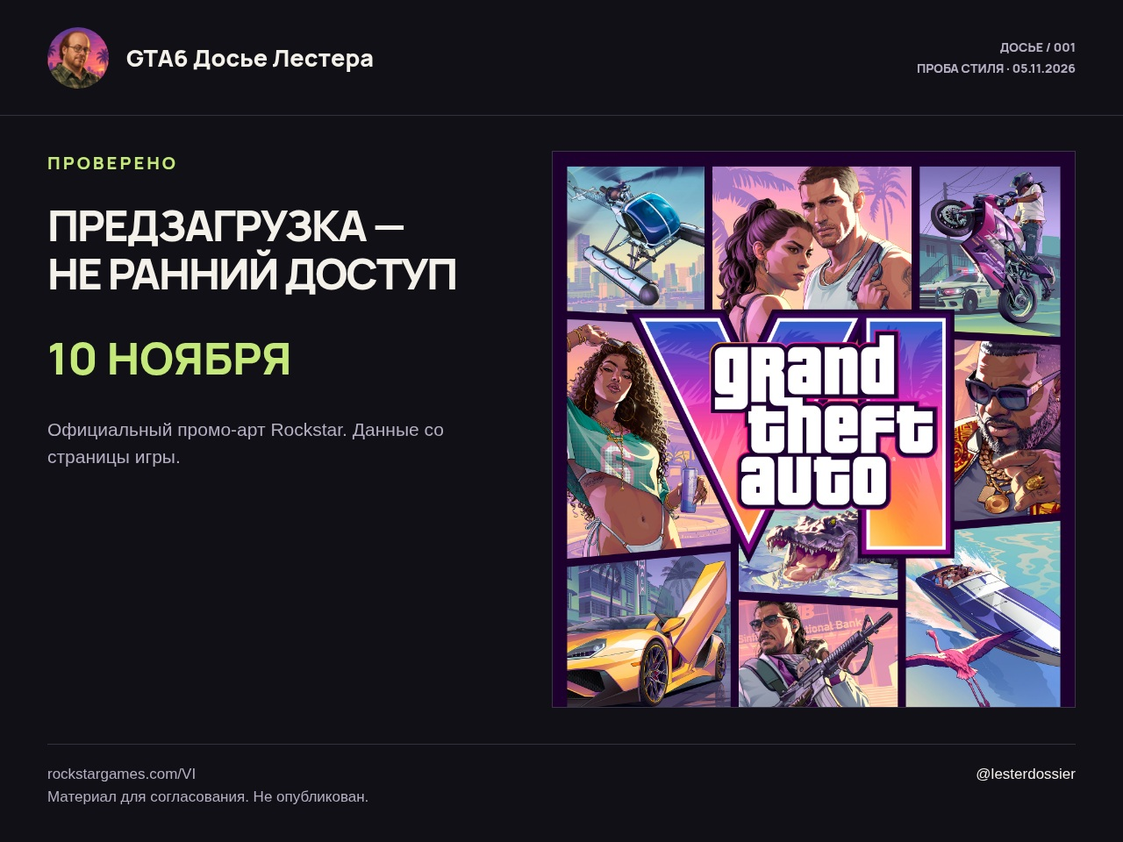
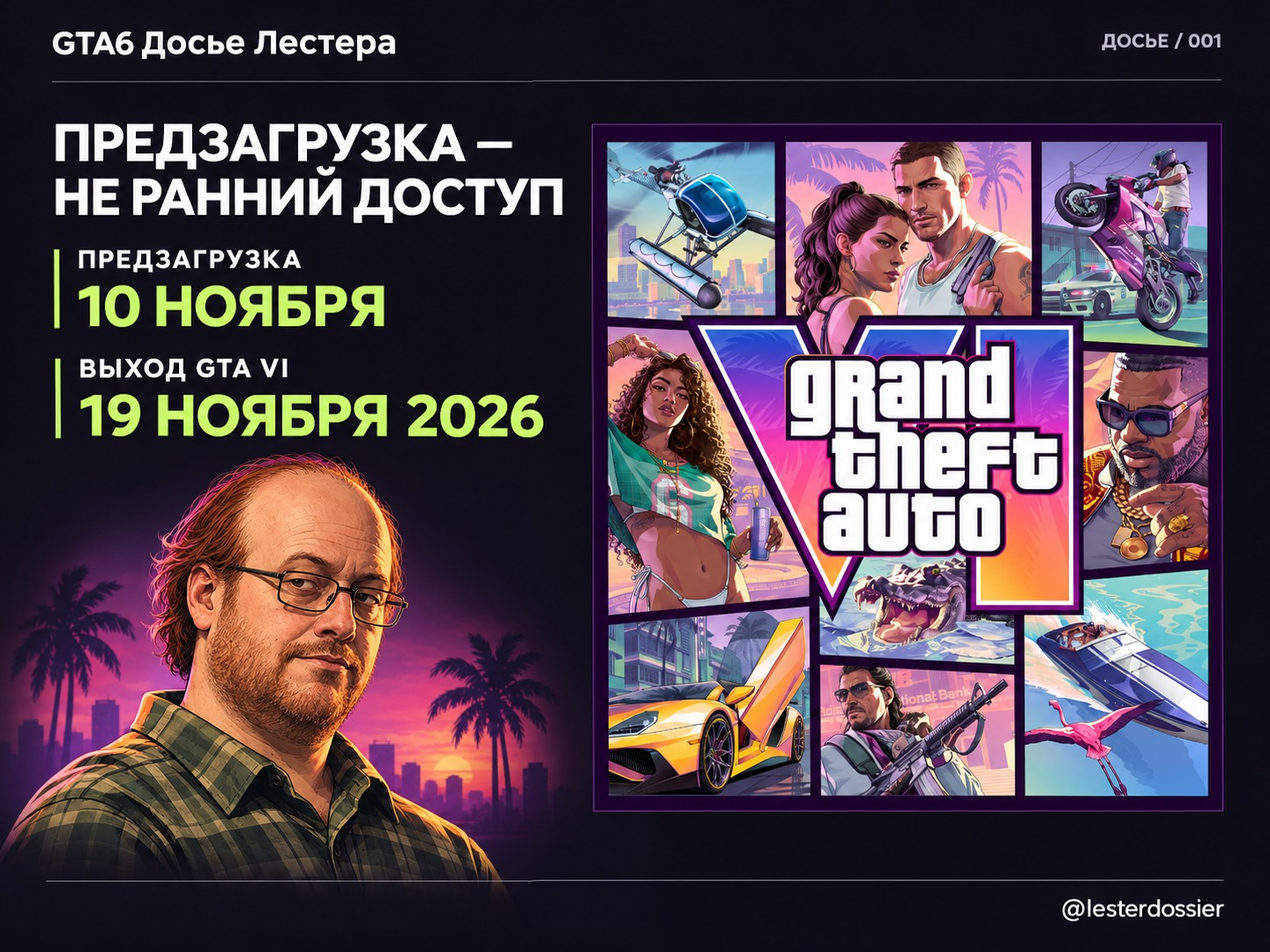
Keep evidence internal and update news card with Lester and both dates

diff --git a/newsroom/samples/review.html b/newsroom/samples/review.html
@@ -1,39 +1,26 @@
-<!doctype html><html lang="ru"><meta charset="utf-8"><title>Досье Лестера — три образца</title><style>body{background:#111017;color:#f4f0ea;font:20px/1.6 Arial;margin:40px auto;max-width:1080px}article{margin:50px 0;border-top:1px solid #45404d;padding-top:35px}img{width:100%}pre{white-space:pre-wrap;font:20px/1.6 Arial}a{color:#c7adff}</style><h1>Три образца редакции</h1><p>Согласование стиля · 5 ноября 2026 · ничего не опубликовано.</p><article><h2>Предзагрузка раньше ограбления</h2><img src="01-fact/image.jpg"><pre>**ПРОВЕРЕНО · Предзагрузка раньше ограбления**
+<!doctype html><html lang="ru"><meta charset="utf-8"><title>Досье Лестера</title><body style="background:#111;color:#eee;max-width:1050px;margin:35px auto;font:20px/1.6 Arial"><h1>Посты на согласование</h1><h2>Предзагрузка раньше ограбления</h2><img style="width:100%" src="01-fact/image.jpg"><pre style="white-space:pre-wrap;font:inherit">**ПРОВЕРЕНО · Предзагрузка раньше ограбления**
 
-На официальной странице GTA VI указано: предзагрузка начинается 10 ноября, выход игры — 19 ноября 2026 года.
+Предзагрузка GTA VI начинается 10 ноября. Выход игры — 19 ноября 2026 года.
 
 Не путай загрузку файлов с доступом к игре. Сейф привезли — это ещё не значит, что тебе выдали код.
 
-https://www.rockstargames.com/VI
-
 @lesterdossier
+</pre><h2>Оценка есть. Названия игры нет</h2><pre style="white-space:pre-wrap;font:inherit">**СЛУХ · Оценка есть. Названия игры нет**
 
-_Образец стиля от 5 ноября 2026. Не опубликован._
-</pre></article><article><h2>Оценка есть. Названия игры нет</h2><img src="02-rumor/image.jpg"><pre>**СЛУХ · Оценка есть. Названия игры нет**
+В сети связывают оценку Shirrako с GTA 6. Но какую именно игру оценивал блогер, из этой публикации не следует.
 
-Канал @leonidagov связывает публикацию Shirrako с оценкой игры с GTA 6. Сам канал признаёт: блогер не уточнил, какую игру оценивает.
-
-Что оценка относится к GTA 6, не подтверждено. Прямой ссылки на исходный пост X в этой публикации нет.
+Связь оценки с GTA 6 не подтверждена.
 
 Удобная теория. Только доказательства опять опаздывают.
 
-https://t.me/leonidagov/2612
+@lesterdossier
+</pre><h2>Часы в репосте — ещё не расписание</h2><pre style="white-space:pre-wrap;font:inherit">**РАЗБОР · Часы в репосте — ещё не расписание**
+
+В сети распространяют таблицу регионального открытия GTA VI. Региональное время пока не подтверждено.
+
+Дата выхода игры — 19 ноября 2026 года.
+
+Будильник ставим после проверки. Одной красивой таблички для этого маловато.
 
 @lesterdossier
-
-_Образец стиля от 5 ноября 2026. Не опубликован._
-</pre></article><article><h2>Часы в репосте — ещё не расписание</h2><img src="03-check/image.jpg"><pre>**РАЗБОР · Часы в репосте — ещё не расписание**
-
-@GTA6_m публикует время открытия GTA VI для разных регионов. Ссылки на страницу магазина или объявление Rockstar в этом посте нет.
-
-На официальной странице проверяется дата выхода: 19 ноября 2026 года. Региональные часы из репоста оставляем неподтверждёнными.
-
-Сохранить табличку легко. Обосновать её — работа посложнее.
-
-https://t.me/GTA6_m/9300
-https://www.rockstargames.com/VI
-
-@lesterdossier
-
-_Образец стиля от 5 ноября 2026. Не опубликован._
-</pre></article></html>
+</pre></body></html>

diff --git a/newsroom/samples/01-fact/preview.html b/newsroom/samples/01-fact/preview.html
@@ -1,8 +1,1 @@
-<!doctype html><html lang="ru"><meta charset="utf-8"><style>
-  @font-face{font-family:Manrope;src:url('../../../newsroom/samples/assets/Manrope-ExtraBold.ttf')}
-  *{box-sizing:border-box}body{margin:0;background:#111017;color:#f4f0ea;width:1280px;height:960px;font-family:Manrope,Arial;overflow:hidden}
-  header{height:132px;padding:28px 54px;display:flex;align-items:center;gap:20px;border-bottom:1px solid #34313e}header img{width:70px;height:70px;border-radius:50%}.brand{font-size:27px}.edition{margin-left:auto;text-align:right;font-size:14px;color:#b6afc3;line-height:1.7}
-  main{display:grid;grid-template-columns:540px 1fr;gap:35px;padding:40px 54px;height:716px}.tag{font-size:20px;letter-spacing:3px;color:#c4e879;margin-bottom:30px}h1{font-size:49px;line-height:1.13;letter-spacing:-2px;text-transform:uppercase;margin:0 0 40px}.accent{font-size:51px;line-height:1.1;color:#c4e879;margin-top:16px}.note{font:21px/1.5 Arial;color:#b6afc3;margin-top:38px;max-width:460px}
-  .evidence{height:635px;display:flex;align-items:center;justify-content:center;background:#19171f;overflow:hidden;border:1px solid #3a3547}.evidence img{width:100%;height:100%;object-fit:cover;object-position:top}
-  footer{margin:0 54px;padding-top:21px;border-top:1px solid #34313e;font:17px/1.5 Arial;color:#b6afc3;display:flex;justify-content:space-between;gap:20px}.handle{color:#f4f0ea;white-space:nowrap}
-  </style><header><img src="../../../newsroom/samples/assets/channel-avatar.jpg"><div class="brand">GTA6 Досье Лестера</div><div class="edition">ДОСЬЕ / 001<br>ПРОБА СТИЛЯ · 05.11.2026</div></header><main><section><div class="tag">ПРОВЕРЕНО</div><h1>Предзагрузка —<br>не ранний доступ</h1><div class="accent">10 НОЯБРЯ</div><div class="note">Официальный промо-арт Rockstar. Данные со страницы игры.</div></section><div class="evidence"><img src="../../../newsroom/samples/assets/rockstar-official-poster.jpg"></div></main><footer><span>rockstargames.com/VI<br>Материал для согласования. Не опубликован.</span><span class="handle">@lesterdossier</span></footer></html>
+<!doctype html><meta charset="utf-8"><title>GTA6 Досье Лестера</title><body style="margin:0;background:#111"><img src="image.jpg" style="display:block;width:100%;height:auto" alt="Предзагрузка 10 ноября. Выход GTA VI 19 ноября 2026. Лестер рассказывает."></body>

diff --git a/newsroom/editor.py b/newsroom/editor.py
@@ -262,6 +262,18 @@ def log_error(state, code):
     state.save()
 
 
+def image_bytes(draft):
+    if not draft.get('image'):
+        return None
+    item = draft['image']
+    file = (ROOT / item['file']).resolve()
+    if ROOT not in file.parents or not file.is_file() or hashlib.sha256(file.read_bytes()).hexdigest() != item['sha256']:
+        raise RuntimeError('approved_image_changed')
+    if item.get('public_sources_hidden') is not True:
+        raise RuntimeError('image_public_sources_not_reviewed')
+    return file.read_bytes()
+
+
 class Bot:
     def __init__(self):
         self.token = os.environ.get('TELEGRAM_BOT_TOKEN')
@@ -287,10 +299,7 @@ class Bot:
     def send(self, draft):
         payload = {'chat_id': CONFIG['channel'], 'text': format_post(draft), 'parse_mode': 'HTML', 'link_preview_options': {'is_disabled': False}}
         if draft.get('image'):
-            image = draft['image']
-            file = (ROOT / image['file']).resolve()
-            if ROOT not in file.parents or hashlib.sha256(file.read_bytes()).hexdigest() != image['sha256']:
-                raise RuntimeError('approved_image_changed')
+            picture = image_bytes(draft)
             if len(format_post(draft)) > 1024:
                 raise RuntimeError('image_caption_too_long')
             boundary = 'LesterDossierBoundary'
@@ -298,7 +307,7 @@ class Bot:
             body = b''
             for k, v in fields.items():
                 body += (f'--{boundary}\r\nContent-Disposition: form-data; name="{k}"\r\n\r\n{v}\r\n').encode()
-            body += (f'--{boundary}\r\nContent-Disposition: form-data; name="photo"; filename="news.jpg"\r\nContent-Type: image/jpeg\r\n\r\n').encode() + file.read_bytes() + (f'\r\n--{boundary}--\r\n').encode()
+            body += (f'--{boundary}\r\nContent-Disposition: form-data; name="photo"; filename="news.jpg"\r\nContent-Type: image/jpeg\r\n\r\n').encode() + picture + (f'\r\n--{boundary}--\r\n').encode()
             r = json.loads(request('https://api.telegram.org/bot' + self.token + '/sendPhoto', body, {'Content-Type': 'multipart/form-data; boundary=' + boundary}))
             if not r.get('ok'):
                 raise RuntimeError('telegram_api_rejected')
@@ -335,8 +344,6 @@ def check_connections():
 def format_post(draft):
     labels = {'fact': 'ПРОВЕРЕНО', 'rumor': 'СЛУХ', 'analysis': 'РАЗБОР'}
     text = '<b>' + labels[draft['kind']] + ' · ' + html.escape(draft['title']) + '</b>\n\n' + html.escape(draft['body'])
-    for link in dict.fromkeys(draft['citations']):
-        text += '\n' + '<a href="' + html.escape(link, quote=True) + '">Источник</a>'
     text += '\n\n@lesterdossier'
     if len(text) > 4000:
         raise ValueError('post_too_long')
@@ -364,6 +371,8 @@ def validate_draft(d, posts, proofs):
         raise ValueError('fact_supported_by_secondary_only')
     if re.search(r'мой инсайдер|мои источники|я (?:уже )?(?:играл|видел закрыт)|нам слили', d['body'].lower()):
         raise ValueError('fabricated_insider_persona')
+    if re.search(r'https?://|www\.|@[A-Za-z0-9_]+|(?:^|\n)источник\s*:', d['title']+'\n'+d['body'], re.I):
+        raise ValueError('public_source_reference_forbidden')
     format_post(d)
     return d
 
@@ -396,7 +405,7 @@ def generate(posts, proofs, state, target_posts=None):
               'Если доказательства не относятся к теме, верни {"skip":true}. Для rumor чётко атрибутируй неподтверждённое сообщение, напиши "не подтверждено". '
               'Верни JSON: kind=fact|rumor|analysis, title, body, event_key (стабильное английское обозначение события с датой самого события, одинаковое для перепечаток), '
               'source_ids=[id публикаций, относящихся ТОЛЬКО к выбранному событию], citations=[точные URL], claims=[{url,quote:дословная выдержка из PROOFS, подтверждающая факт}]. '
-              'Все проверяемые утверждения body должны соответствовать claims. Не добавляй технические поля или ссылки в body. '
+              'Ссылки, названия каналов-источников, их @handles, упоминания места получения информации и подписи «Источник» нельзя выводить в title/body. Для слухов используй обобщённую атрибуцию («в сети обсуждают») и явную пометку неподтверждённости. Полные источники сохраняй ТОЛЬКО в служебных citations/claims. Все проверяемые утверждения body должны соответствовать claims. Не добавляй технические поля или ссылки в body. '
               'Избегай уже опубликованных тем HISTORY и TARGET_RECENT, в том числе ручных подписей к видео. Никаких рассуждений за пределами JSON.')
     user = json.dumps({'NOW': stamp(), 'POSTS': [{**p, 'text': p['text'][:2500]} for p in posts], 'PROOFS': proofs, 'HISTORY': [r.get('event_key') for r in state.data['history'][-90:]], 'TARGET_RECENT': [p['text'][:1200] for p in (target_posts or [])[-12:]], 'allow_rumors': CONFIG['allow_rumors']}, ensure_ascii=False)
     # UTF-8 bytes is a conservative token upper bound; reserve before the API call.
@@ -419,7 +428,7 @@ def generate(posts, proofs, state, target_posts=None):
                      'Первичный источник обязан подтверждать именно выбранную новость, а не просто существование GTA6. '
                      'Не считать скриншот Telegram подтверждением слов блогера в X. Не принимать домыслы или прежние события за свежую новость. '
                      'Для СЛУХА допускается только явная атрибуция публикации и отсутствие подтверждения. '
-                     'Если есть неподтверждённое фактическое утверждение, неверная дата, несоответствие цитат, реклама, повтор HISTORY/TARGET_RECENT или выдуманный доступ — reject. '
+                     'Отклоняй публичные ссылки и подписи источников в title/body; служебные citations/claims должны оставаться. Если есть неподтверждённое фактическое утверждение, неверная дата, несоответствие цитат, реклама, повтор HISTORY/TARGET_RECENT или выдуманный доступ — reject. '
                      'Верни JSON {"approved":true|false,"reason":"коротко"}. При сомнении false.')
     review_input = json.dumps({'DRAFT': d, 'EVIDENCE': json.loads(user)}, ensure_ascii=False)
     checked = json.loads(request('https://api.openai.com/v1/chat/completions', {'model': CONFIG['model'], 'messages': [{'role':'system','content':review_system},{'role':'user','content':review_input}], 'max_completion_tokens':400, 'response_format':{'type':'json_object'}}, {'Authorization':'Bearer '+token}))
@@ -463,6 +472,7 @@ def publish(state, bot, draft, posts, *, test=False, at=None):
     posts = [p for p in posts if p['id'] in draft.get('source_ids', [])]
     if duplicate(draft, posts, state):
         raise RuntimeError('duplicate_event')
+    image_bytes(draft)  # Reject obsolete/source-bearing media before reserving a delivery.
     bot.check()
     record = {'at': at.isoformat(), 'status': 'pending', 'test': test, 'draft_hash': digest(draft), 'event_key': draft['event_key'], 'source_hashes': [digest(p['text']) for p in posts], 'tokens': sorted(digest(w) for w in normalize(draft['title'] + ' ' + draft['body'])), 'source_urls': draft['citations']}
     state.data['history'].append(record)

diff --git a/newsroom/tests/test_editor.py b/newsroom/tests/test_editor.py
@@ -137,6 +137,19 @@ class Tests(unittest.TestCase):
         with self.assertRaises(ValueError): e.validate_draft(d,[P],[])
         d['body']='Ранний доступ не подтверждено.'
         self.assertEqual(e.validate_draft(d,[P],[])['kind'],'rumor')
+    def test_sources_kept_internal_but_never_in_caption(self):
+        d=copy.deepcopy(D)
+        e.validate_draft(d,[P],[PROOF]);caption=e.format_post(d)
+        self.assertNotIn(e.PRIMARY_FALLBACK,caption);self.assertNotIn('href=',caption);self.assertNotIn('Источник',caption)
+        self.assertEqual(d['citations'],[e.PRIMARY_FALLBACK])
+    def test_source_links_in_body_rejected(self):
+        d=copy.deepcopy(D);d['body']='Ссылка: '+e.PRIMARY_FALLBACK
+        with self.assertRaisesRegex(ValueError,'public_source_reference'):e.validate_draft(d,[P],[PROOF])
+    def test_old_source_bearing_image_cannot_publish(self):
+        d=json.loads((e.ROOT/'samples/02-rumor/draft.json').read_text())
+        bot=FakeBot()
+        with self.assertRaisesRegex(RuntimeError,'image_public_sources_not_reviewed'):e.publish(self.state,bot,d,d['source_posts'],test=True,at=AT)
+        self.assertEqual(bot.calls,0);self.assertEqual(self.state.data['history'],[])
     def test_telegram_html_escaped(self):
         self.assertIn('&lt;script&gt;',e.format_post({**D,'body':'<script>'}))
     def test_budget_zero_no_api_call(self):

diff --git a/newsroom/README.md b/newsroom/README.md
@@ -83,3 +83,6 @@ python3 -m newsroom.editor bot-check
 
 
 Повторная облачная проверка 06.11.2026 прошла: обе учётные записи подключены, бот administrator/can_post_messages=true, OpenAI metadata модели доступна. Баланс этим не проверяется. Подтверждённый пользователем бюджет $2/месяц восстановлен после возврата к OpenAI. Автопубликация выключена; тестовый пост пока не утверждён, реальной генерации/доставки не было. Подробности connections-check-verified.json.
+
+
+Последняя правка пользователя: в публичных постах и изображениях не показывать ссылки/подписи источников. Служебные citations/claims сохраняются для фактчека. В активной карточке 01-fact две даты и портрет Лестера; это авторская иллюстрация, не документальное доказательство. Старые изображения 02/03 не соответствуют новому оформлению и заблокированы для отправки до обновления (public_sources_hidden=false). Старый renderer tools/render_samples.py — исторический макет; его не запускать поверх новых утверждаемых изображений. Публикаций по-прежнему не было.

diff --git a/newsroom/samples/03-check/post.md b/newsroom/samples/03-check/post.md
@@ -1,14 +1,9 @@
 **РАЗБОР · Часы в репосте — ещё не расписание**
 
-@GTA6_m публикует время открытия GTA VI для разных регионов. Ссылки на страницу магазина или объявление Rockstar в этом посте нет.
+В сети распространяют таблицу регионального открытия GTA VI. Региональное время пока не подтверждено.
 
-На официальной странице проверяется дата выхода: 19 ноября 2026 года. Региональные часы из репоста оставляем неподтверждёнными.
+Дата выхода игры — 19 ноября 2026 года.
 
-Сохранить табличку легко. Обосновать её — работа посложнее.
-
-https://t.me/GTA6_m/9300
-https://www.rockstargames.com/VI
+Будильник ставим после проверки. Одной красивой таблички для этого маловато.
 
 @lesterdossier
-
-_Образец стиля от 5 ноября 2026. Не опубликован._

diff --git a/newsroom/samples/02-rumor/post.md b/newsroom/samples/02-rumor/post.md
@@ -1,13 +1,9 @@
 **СЛУХ · Оценка есть. Названия игры нет**
 
-Канал @leonidagov связывает публикацию Shirrako с оценкой игры с GTA 6. Сам канал признаёт: блогер не уточнил, какую игру оценивает.
+В сети связывают оценку Shirrako с GTA 6. Но какую именно игру оценивал блогер, из этой публикации не следует.
 
-Что оценка относится к GTA 6, не подтверждено. Прямой ссылки на исходный пост X в этой публикации нет.
+Связь оценки с GTA 6 не подтверждена.
 
 Удобная теория. Только доказательства опять опаздывают.
 
-https://t.me/leonidagov/2612
-
 @lesterdossier
-
-_Образец стиля от 5 ноября 2026. Не опубликован._

diff --git a/newsroom/samples/01-fact/post.md b/newsroom/samples/01-fact/post.md
@@ -1,11 +1,7 @@
 **ПРОВЕРЕНО · Предзагрузка раньше ограбления**
 
-На официальной странице GTA VI указано: предзагрузка начинается 10 ноября, выход игры — 19 ноября 2026 года.
+Предзагрузка GTA VI начинается 10 ноября. Выход игры — 19 ноября 2026 года.
 
 Не путай загрузку файлов с доступом к игре. Сейф привезли — это ещё не значит, что тебе выдали код.
 
-https://www.rockstargames.com/VI
-
 @lesterdossier
-
-_Образец стиля от 5 ноября 2026. Не опубликован._
